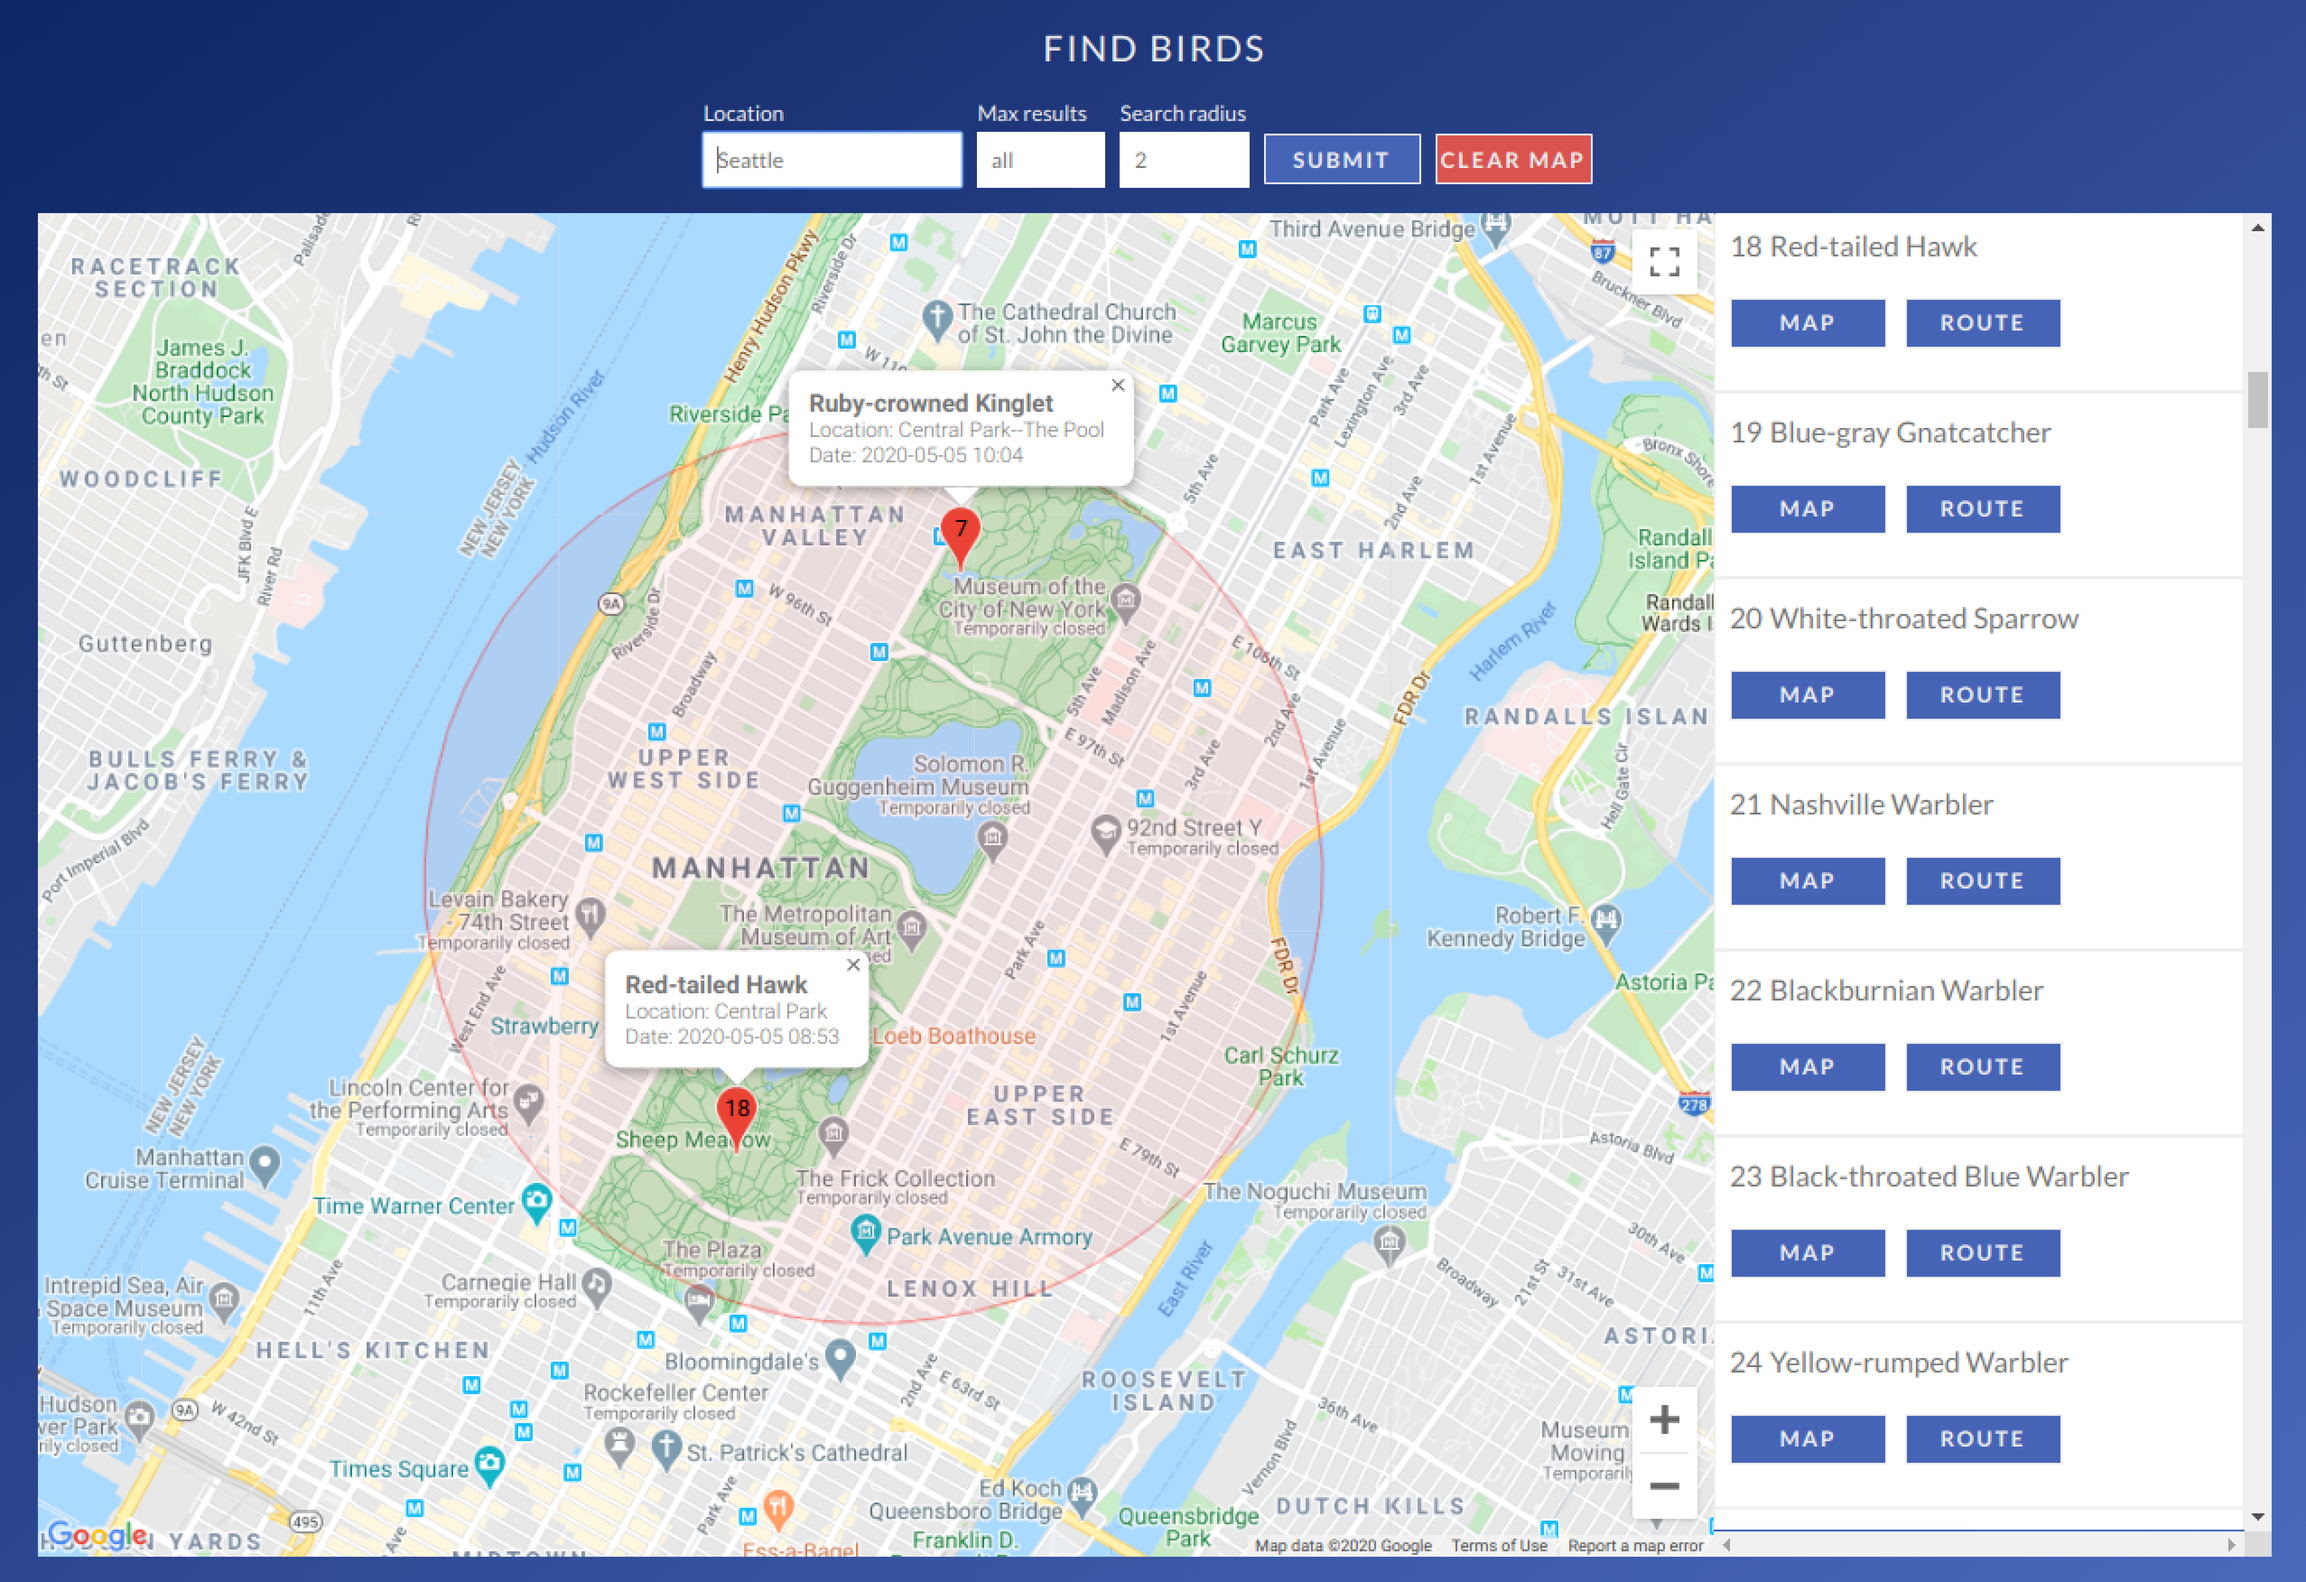
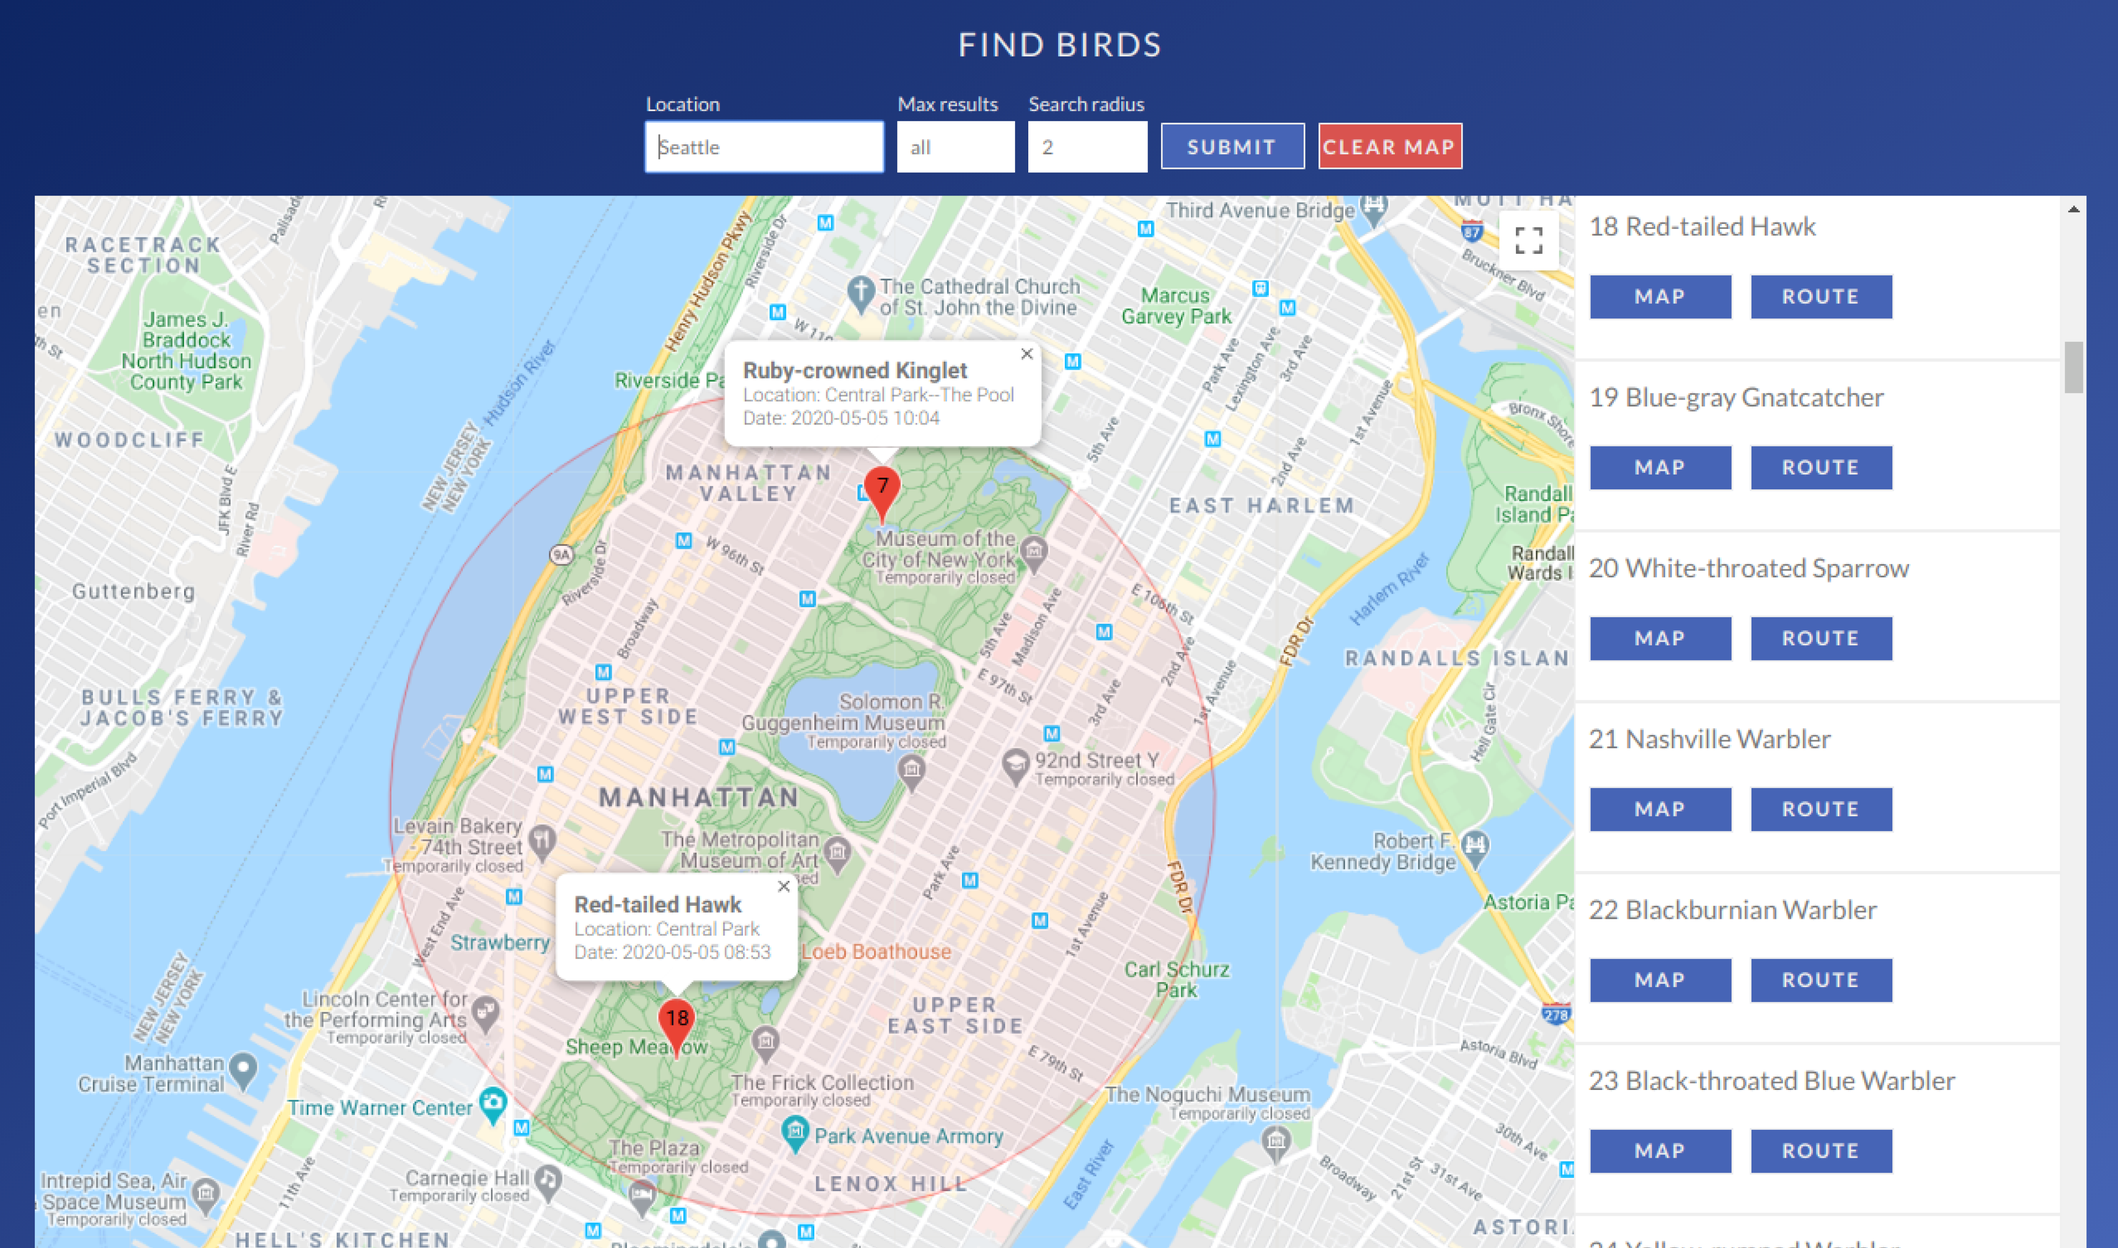
add #8

diff --git a/src/stylesheets/css/main.css b/src/stylesheets/css/main.css
@@ -2,7 +2,11 @@
   box-sizing: border-box; }
 
 body {
-  font-family: Roboto, sans-serif; }
+  font-family: Roboto, sans-serif;
+  max-width: 1300px;
+  box-shadow: 0px 4px 4px rgba(0, 0, 0, 0.25);
+  margin-left: auto;
+  margin-right: auto; }
 
 button {
   all: unset;
@@ -170,7 +174,8 @@ button:focus {
 .GlobalNav {
   position: absolute;
   z-index: 9000;
-  width: 100%; }
+  width: 100%;
+  max-width: 1300px; }
 
 .Header {
   background: #2f3c4c;
@@ -241,16 +246,10 @@ button:focus {
   color: #424770; }
 
 .Icon {
-  width: 90px; }
-  .Icon--svg {
-    fill-opacity: 0.3; }
-    .Icon--svg:hover * {
-      fill-opacity: 8;
-      width: 12; }
-  .Icon--svg-link {
-    transition: all 0.3s; }
-    .Icon--svg-link:hover * {
-      fill: #2f80ed; }
+  height: 100%;
+  width: auto; }
+  .Icon--svg-link:hover * {
+    fill: #2f80ed; }
 
 .Logo--mountains {
   width: 120px;
@@ -368,16 +367,42 @@ button:focus {
   align-items: center;
   width: 60%; }
   .ProjectSection___screenshots-container:hover .screenshot-mobile {
-    transform: none; }
+    transform: none;
+    opacity: 1; }
   .ProjectSection___screenshots-container:hover .screenshot-tablet {
-    transform: rotate3d(0, 0, 0, 0deg) translate(5%); }
+    transform: rotate3d(0, 0, 0, 0deg) translate(5%);
+    opacity: 1; }
+  .ProjectSection___screenshots-container:hover .floating-icon-container {
+    transform: translate(12%, -14vw);
+    opacity: 1; }
+    @media screen and (min-width: 1250px) {
+      .ProjectSection___screenshots-container:hover .floating-icon-container {
+        transform: translate(12%, -185px); } }
+
+.floating-icon-container {
+  transform: translate(12%, 0);
+  display: flex;
+  width: 50%;
+  justify-content: center;
+  opacity: 0;
+  transition: all 0.5s ease;
+  position: absolute; }
+  .floating-icon-container .icon-container {
+    display: flex;
+    align-items: center;
+    height: 2vw;
+    max-height: 20px;
+    margin-top: 0;
+    margin-right: calc(5px + 0.2vw);
+    margin-bottom: 0;
+    margin-left: calc(5px + 0.2vw); }
 
 .screenshot-mobile-container {
-  z-index: 4000;
   perspective: 1500px;
   width: 15%; }
   .screenshot-mobile-container .screenshot-mobile {
     transition: all 0.5s ease;
+    opacity: 0;
     transform: translate(140%) rotate3d(0, 1, 0, -45deg);
     width: 100%;
     display: inline-block;

diff --git a/src/components/HomePage.jsx b/src/components/HomePage.jsx
@@ -9,8 +9,18 @@ import chasingEnglishMobile from "../static/chasingenglish-mobile.png";
 import chasingEnglishTablet from "../static/chasingenglish-desktop.png";
 import plumaMobile from "../static/pluma-mobile.png";
 import plumaTablet from "../static/pluma-desktop.png";
+import iconReact from "../static/logos_react.png";
+import iconAntDesign from "../static/logos_ant-design.png";
+import iconExpress from "../static/logos_express.png";
+import iconHeroku from "../static/logos_heroku.png";
+import iconJavaScript from "../static/logos_javascript.png";
+import iconJquery from "../static/logos_jquery.png";
+import iconMongoDb from "../static/logos_mongodb.png";
+import iconNode from "../static/logos_node.png";
+import iconSass from "../static/logos_sass.png";
+import iconStripe from "../static/logos_stripe.png";
 
-// jsx
+// jsx project desriptions
 import chasingEnglish from "../static/project-descriptions/chasingEnglish.jsx";
 import pluma from "../static/project-descriptions/pluma.jsx";
 
@@ -19,6 +29,16 @@ const HomePage = () => {
     <section className='HomePage'>
       <Heading level={2} text='Projects' />
       <ProjectSection
+        stackIcons={[
+          iconReact,
+          iconAntDesign,
+          iconSass,
+          iconNode,
+          iconExpress,
+          iconMongoDb,
+          iconStripe,
+          iconHeroku,
+        ]}
         styles='margin-lg-bottom'
         title='Chasing English'
         textBody={chasingEnglish()}
@@ -30,6 +50,8 @@ const HomePage = () => {
         repoUrl='https://github.com/chefThomas/chasing-english'
       />
       <ProjectSection
+        mainFlexDirection={{ flowDirection: "row-reverse" }}
+        stackIcons={[iconJavaScript, iconJquery, iconSass]}
         title='Pluma'
         textBody={pluma()}
         mobileImg={plumaMobile}

diff --git a/src/stylesheets/scss/partials/_ProjectSection.scss b/src/stylesheets/scss/partials/_ProjectSection.scss
@@ -92,25 +92,63 @@
 }
 
 .ProjectSection___screenshots-container {
+  // border: 1px solid red;
   display: flex;
   justify-content: center;
   align-items: center;
   width: 60%;
   &:hover .screenshot-mobile {
     transform: none;
+    opacity: 1;
   }
 
   &:hover .screenshot-tablet {
     transform: rotate3d(0, 0, 0, 0deg) translate(5%);
+    opacity: 1;
+  }
+
+  &:hover .floating-icon-container {
+    // border: 1px solid red;
+    transform: translate(12%, -14vw);
+    opacity: 1;
+    @media screen and (min-width: 1250px) {
+      transform: translate(12%, -185px);
+    }
+  }
+}
+
+.floating-icon-container {
+  transform: translate(12%, 0);
+  display: flex;
+  width: 50%;
+  justify-content: center;
+  // border: 1px solid red;
+
+  opacity: 0;
+  transition: all 0.5s ease;
+  position: absolute;
+
+  .icon-container {
+    // border: 1px solid blue;
+    display: flex;
+    align-items: center;
+    height: 2vw;
+    max-height: 20px;
+    @include mar(
+      $mt: 0,
+      $mr: calc(5px + 0.2vw),
+      $mb: 0,
+      $ml: calc(5px + 0.2vw)
+    );
   }
 }
 
 .screenshot-mobile-container {
-  z-index: 4000;
   perspective: 1500px;
   width: 15%;
   .screenshot-mobile {
     transition: all 0.5s ease;
+    opacity: 0;
     transform: translate(140%) rotate3d(0, 1, 0, -45deg);
     width: 100%;
     display: inline-block;
@@ -126,7 +164,6 @@
 
   .screenshot-tablet {
     transition: all 0.5s ease;
-
     transform: rotate3d(0, 1, 0, -35deg);
     display: inline-block;
     width: 100%;

diff --git a/src/components/ProjectSection.jsx b/src/components/ProjectSection.jsx
@@ -7,6 +7,13 @@ import Icon from "./Icon";
 import { github } from "../static/svgs/svg-depot";
 
 const ProjectSection = (props) => {
+  const generateStackIcons = () =>
+    props.stackIcons.map((img) => (
+      <div className='icon-container'>
+        <Icon src={img} />
+      </div>
+    ));
+
   return (
     <article className={`ProjectSection ${props.styles}`}>
       <ContainerFlex flexProps='align-items-center'>
@@ -33,6 +40,7 @@ const ProjectSection = (props) => {
         </div>
 
         <div className='ProjectSection___screenshots-container'>
+          <div className='floating-icon-container'>{generateStackIcons()}</div>
           <div className='screenshot-mobile-container'>
             <img
               className='screenshot-mobile'

diff --git a/src/static/project-descriptions/pluma.jsx b/src/static/project-descriptions/pluma.jsx
@@ -13,7 +13,7 @@ const pluma = () => (
       eBird:
       <ul>
         <li>
-          <b>Maps</b> to display geospatical data.
+          <b>Maps</b> to display geospatial data.
         </li>
         <li>
           <b>Geocoding</b> to convert users' verbal locations to geocoordinates.
@@ -25,8 +25,7 @@ const pluma = () => (
       </ul>
       As a former field biologist, perennial bird enthusiast, and current web
       developer, building Pluma was really, really fun because it combined
-      multiple disciplines of interest to me, and is something I use on a
-      regular basis before heading out with my binoculars.
+      multiple disciplines of interest to me.
     </p>
   </div>
 );

diff --git a/src/components/Icon.jsx b/src/components/Icon.jsx
@@ -1,8 +1,10 @@
 import React from "react";
 
-const Icon = ({ type, url, svg, src, alt, style }) => {
+const Icon = ({ type, url, svg, src, alt, styles }) => {
   return type === "svg" ? (
-    <div className='Icon--svg'>{svg}</div>
+    <span className='Icon--svg' style={styles}>
+      {svg}
+    </span>
   ) : type === "svg-link" ? (
     <a
       className='Icon--svg-link'
@@ -14,7 +16,7 @@ const Icon = ({ type, url, svg, src, alt, style }) => {
       {svg}
     </a>
   ) : (
-    <img className='Icon' style={style} src={src} alt={alt} />
+    <img className='Icon' style={styles} src={src} alt={alt} />
   );
 };
 

diff --git a/src/components/GlobalNav.jsx b/src/components/GlobalNav.jsx
@@ -16,7 +16,11 @@ const GlobalNav = (prop) => {
         styles='padding-md'
       >
         <ContainerFlex flexProps='align-items-center'>
-          <Icon src={mountains} alt='mountains logo' />
+          <Icon
+            src={mountains}
+            styles={{ width: "90px" }}
+            alt='mountains logo'
+          />
           <Heading
             level={1}
             text={"Tom Dixon"}

diff --git a/src/stylesheets/scss/partials/_Icon.scss b/src/stylesheets/scss/partials/_Icon.scss
@@ -1,14 +1,8 @@
 .Icon {
-  width: 90px;
-  &--svg {
-    fill-opacity: 0.3;
-    &:hover * {
-      fill-opacity: 8;
-      width: 12;
-    }
-  }
+  height: 100%;
+  width: auto;
+
   &--svg-link {
-    transition: all 0.3s;
     &:hover * {
       fill: $link-blue;
     }

diff --git a/src/stylesheets/scss/partials/_base.scss b/src/stylesheets/scss/partials/_base.scss
@@ -9,6 +9,10 @@
 
 body {
   font-family: $primary-font;
+  max-width: 1300px;
+  box-shadow: $box-shadow;
+  margin-left: auto;
+  margin-right: auto;
 }
 
 // reset button styling

diff --git a/src/stylesheets/scss/partials/_GlobalNav.scss b/src/stylesheets/scss/partials/_GlobalNav.scss
@@ -2,4 +2,5 @@
   position: absolute;
   z-index: 9000;
   width: 100%;
+  max-width: 1300px;
 }
